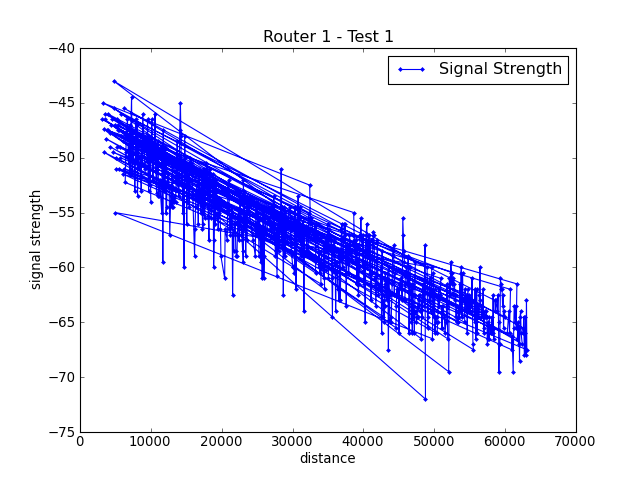
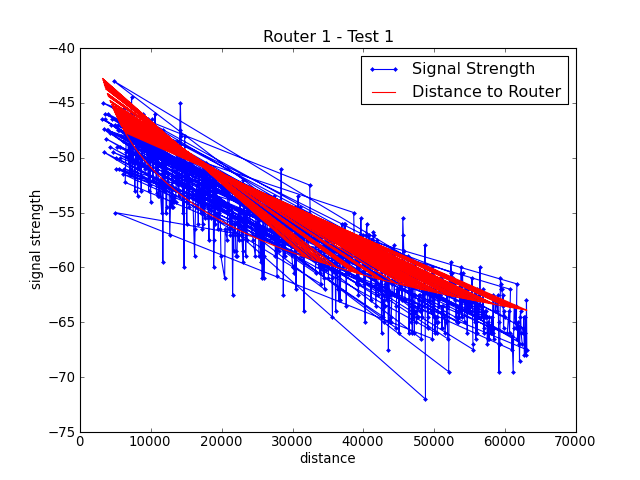
all

diff --git a/plot.py b/plot.py
@@ -1,6 +1,8 @@
 from pylab import *
 
+import numpy as np
 import csv
+import math
 
 
 
@@ -17,6 +19,36 @@ def csv_to_arrays(f):
 def plot_for(t, odom_signle, output):
     x,y = csv_to_arrays(odom_signle)
     plot (x, y,'.-', label='distance-signal' )
+
+    #L = 10n log(d) + c
+    #y = 10*n * log(x) + c
+    # m = 10*n
+    #y = Ap
+    #A = [[log(x) 1]]
+    #p = [[10*n], [c]]
+
+
+
+
+    xx = map(lambda x: math.log(float(x)), x)
+
+    #y = m * xx + c
+    #m = 10 * n
+    #xx = log(d)
+
+#    print "lens x,y %s,%s" % (str(len(xx)), str(len(y)))
+
+    A = np.vstack([xx, np.ones(len(x))]).T
+    print "A => "
+    print A
+
+    m, c = np.linalg.lstsq(A, y)[0]
+    print "m,c = %s, %s" % (m,c)
+
+#    print xx
+#    print "x,y %f,%f" % (len(x), len((m*xx+c)))
+    plt.plot(x, map(lambda x: m*float(x)+c, xx), 'r', label='Fitted line')
+
 
 
     xlabel('distance')
@@ -88,3 +120,7 @@ plot_for('Router 4 - Test 1', 'out/r4_odom_rssi.csv', "out/r4.png")
 #plt.plot(x, m*x + c, 'r', label='Fitted line')
 #plt.legend()
 #plt.show()
+
+
+
+
